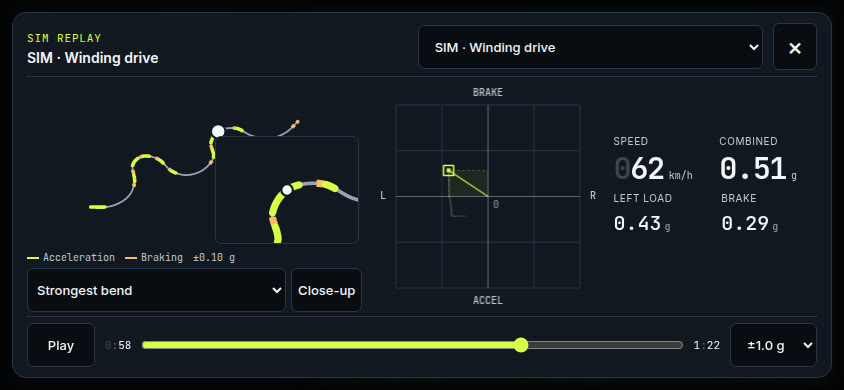
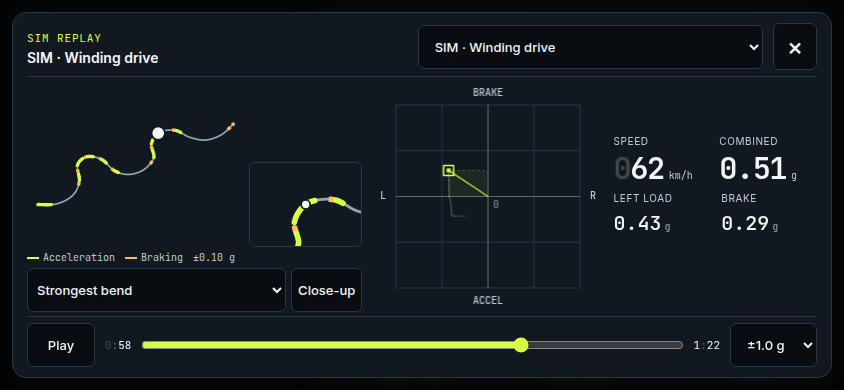
Keep the close-up readable in landscape

diff --git a/docs/demo-route.css b/docs/demo-route.css
@@ -18,12 +18,12 @@
     border:1px solid var(--divider);border-radius:6px;background:var(--surface);
 }
 .bbDemoRoute .bbDemoRouteInset[hidden]{display:none}
-.bbDemoRoute path{fill:none;stroke-linecap:round;stroke-linejoin:round}
-.bbDemoRoute .bbDemoRouteTrace{stroke:var(--text-tertiary);stroke-width:2.5}
+#demo-route-geometry path{fill:none;stroke-linecap:round;stroke-linejoin:round}
+#demo-route-geometry .bbDemoRouteTrace{stroke:var(--text-tertiary);stroke-width:2.5}
 .bbDemoAccel{--route-color:var(--ok)}
 .bbDemoBrake{--route-color:var(--amber)}
-.bbDemoRoute .bbDemoAccel,.bbDemoRoute .bbDemoBrake{stroke:var(--route-color);stroke-width:5}
-.bbDemoRoute .bbDemoBrake{stroke-dasharray:5 4;stroke-linecap:butt}
+#demo-route-geometry .bbDemoAccel,#demo-route-geometry .bbDemoBrake{stroke:var(--route-color);stroke-width:5}
+#demo-route-geometry .bbDemoBrake{stroke-dasharray:5 4;stroke-linecap:butt}
 .bbDemoRoute .bbDemoRouteCursor{fill:var(--text);stroke:var(--surface);stroke-width:2.8}
 .bbDemoRoute .bbDemoRouteInset .bbDemoRouteCursor{stroke-width:1.5}
 .bbDemoRouteKey{display:flex;flex-wrap:wrap;gap:4px 10px;color:var(--text-secondary);font:10px var(--mono)}
@@ -47,4 +47,8 @@
 @media(max-height:450px) and (min-width:600px){
     .bbReplay:has(.bbDemoRoute:not([hidden])) .bbReplayBody{gap:10px}
     .bbDemoRoute{padding:4px 0;gap:4px}
+    .bbDemoRouteStage:has(.bbDemoRouteInset:not([hidden])){
+        display:grid;grid-template-columns:minmax(0,1fr) minmax(0,.52fr);align-items:end;gap:4px;
+    }
+    .bbDemoRoute .bbDemoRouteInset{position:static;width:100%;max-height:100%}
 }
